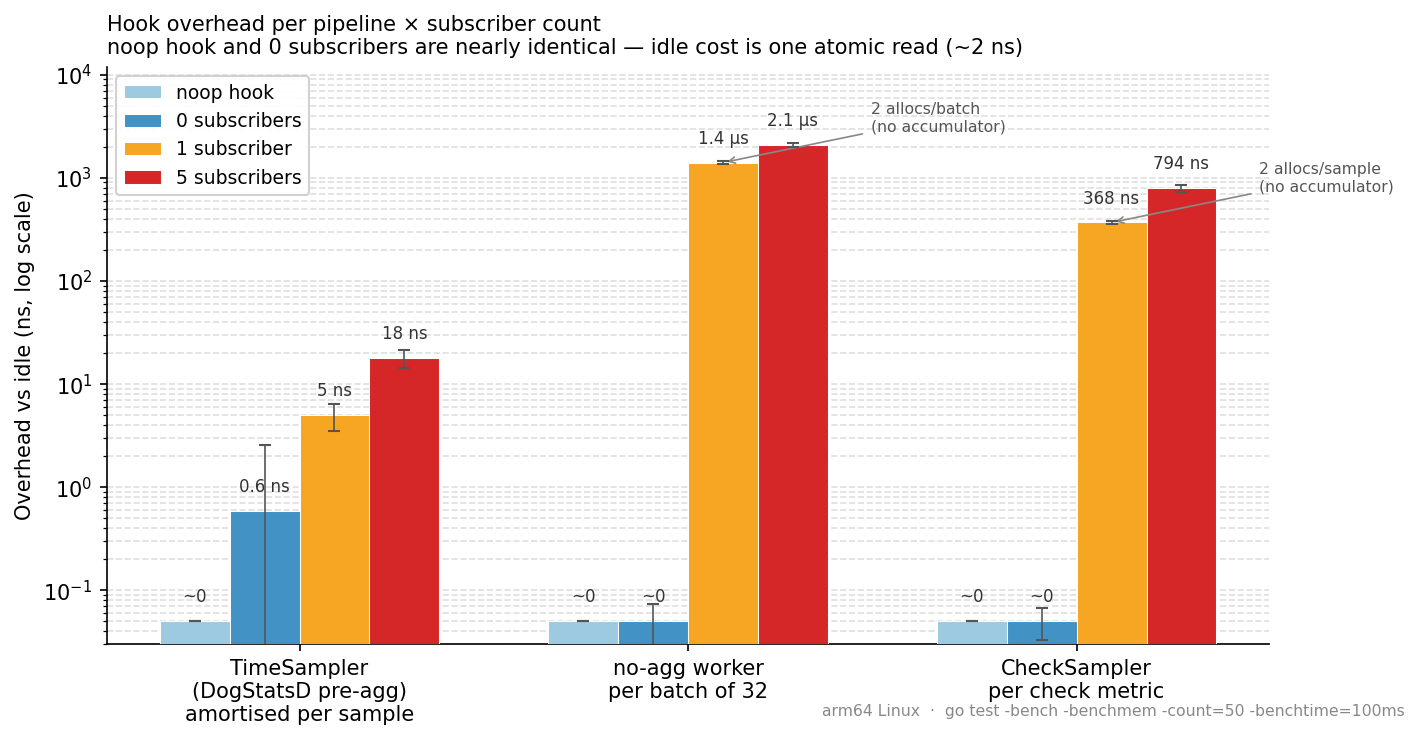
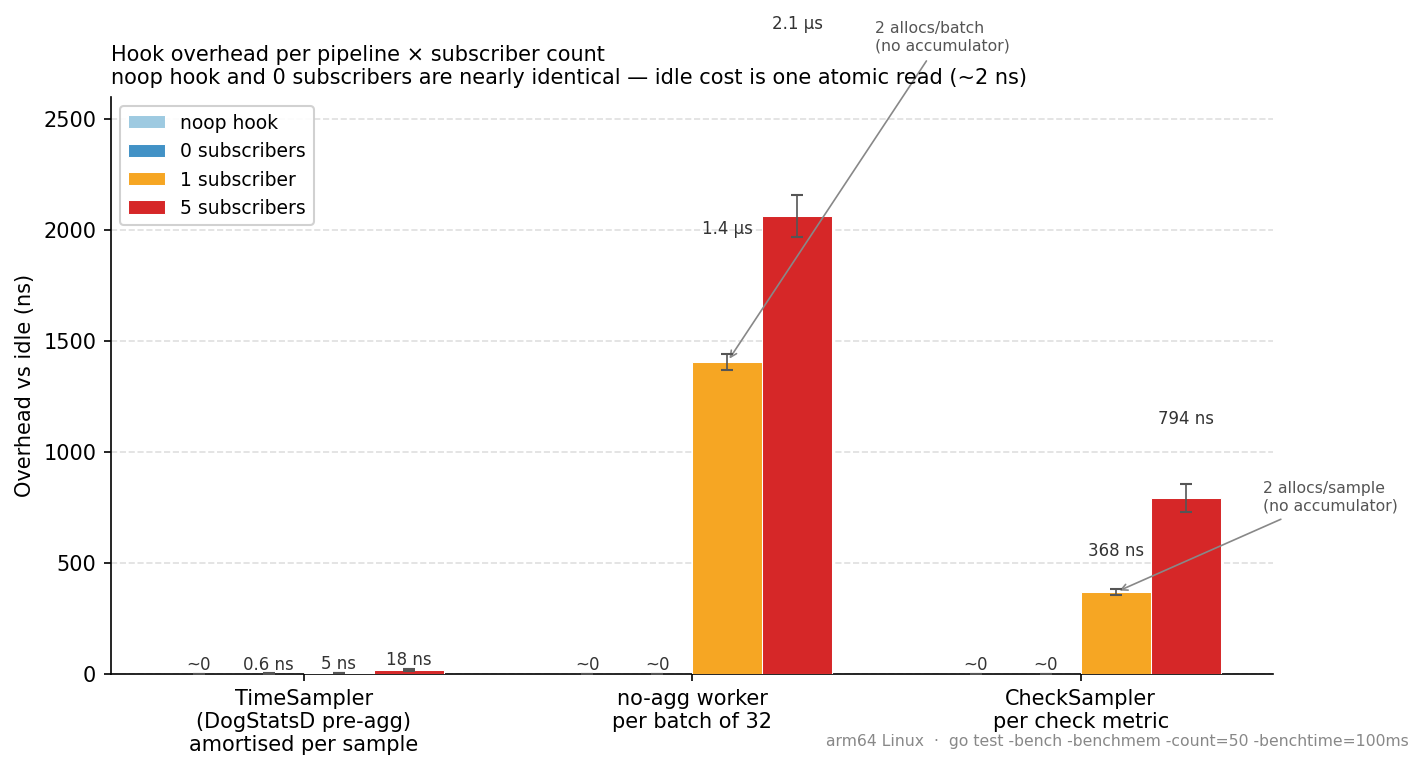
docs(pkg/hook): switch overhead_a to linear scale
Log scale was unnecessary — the linear scale communicates the zero-overhead
principle more directly: idle bars sit visibly at the baseline, TimeSampler
active bars are near-zero, and no-agg/check active bars stand tall.

Changed region(s): [[0.0, 0.0, 0.9922, 0.9946], [0.5891, 0.9324, 0.6512, 0.9946]]

diff --git a/pkg/hook/plot_overhead.py b/pkg/hook/plot_overhead.py
@@ -122,11 +122,10 @@ for (label, vals), errs, colour, offset in zip(
         ax.text(bar.get_x() + bar.get_width() / 2, bar.get_height() * 1.4,
                 txt, ha="center", va="bottom", fontsize=8, color="#333333")
 
-ax.set_yscale("log")
-ax.set_ylim(0.03, 12000)
+ax.set_ylim(0, 2600)
 ax.set_xticks(x)
 ax.set_xticklabels(pipelines, fontsize=10)
-ax.set_ylabel("Overhead vs idle (ns, log scale)", fontsize=10)
+ax.set_ylabel("Overhead vs idle (ns)", fontsize=10)
 ax.set_title(
     "Hook overhead per pipeline × subscriber count\n"
     "noop hook and 0 subscribers are nearly identical — idle cost is one atomic read (~2 ns)",

diff --git a/pkg/hook/OVERHEAD.md b/pkg/hook/OVERHEAD.md
@@ -159,11 +159,10 @@ benchmark — we measure delivery cost, not congestion.
 The first reviewer question was: _"if folks aren't using anomaly detection they pay no
 resources for it."_
 
-The chart below compares four hook modes across all three tap points. The Y axis is
-logarithmic to make the idle bars visible alongside the active ones. The light blue
-(noop hook) and dark blue (0 subscribers) bars are nearly identical on every pipeline —
-both land at the bottom of the chart. The only visible difference is in the TimeSampler
-column, where 0-sub shows ~0.6 ns vs ~0 for noop: that is one atomic read.
+The chart below compares four hook modes across all three tap points. The light blue
+(noop hook) and dark blue (0 subscribers) bars are nearly invisible on every pipeline —
+both sit at the baseline. The only visible difference is in the TimeSampler column,
+where 0-sub shows ~0.6 ns vs ~0 for noop: that is one atomic read.
 
 ![Hook overhead per pipeline × subscriber count](overhead_a.png)
 
